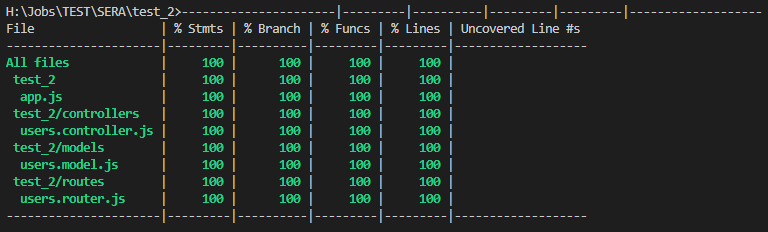
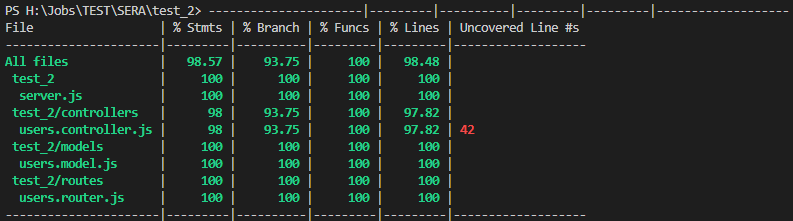
[UPDATE] connect to RabbitMQ and send email when user created

Changed region(s): [[0.0, 0.0271, 1.0, 1.0], [0.0, 0.2443, 0.0938, 0.2986]]

diff --git a/controllers/users.controller.js b/controllers/users.controller.js
@@ -1,88 +1,117 @@
+const amqp = require('amqplib/callback_api');
+require('dotenv').config();
+
 const model = require('../models/users.model');
 
 function postUser(req, res) {
-    if (!req.body.name) {
-        return res.status(400).json({
-            error: 'Missing user name'
-        });
-    }
+	if (!req.body.name) {
+		return res.status(400).json({
+			error: 'Missing user name'
+		});
+	}
 
-    if (!req.body.email) {
-        return res.status(400).json({
-            error: 'Missing user email'
-        });
-    } else {
-        const user = model.find(user => user.email === req.body.email);
-        if (user) {
-            return res.status(409).json({
-                error: 'User email already existed'
-            });
-        }
-    }
+	if (!req.body.email) {
+		return res.status(400).json({
+			error: 'Missing user email'
+		});
+	} else {
+		const user = model.find(user => user.email === req.body.email);
+		if (user) {
+			return res.status(409).json({
+				error: 'User email already existed'
+			});
+		}
+	}
 
-    const newUser = {
-        id: model.length + 1,
-        name: req.body.name,
-        email: req.body.email
-    }
-    model.push(newUser);
+	const newUser = {
+		id: model.length + 1,
+		name: req.body.name,
+		email: req.body.email
+	}
+	model.push(newUser);
 
-    res.status(201).json(newUser);
+	amqp.connect(`${process.env.RABBITMQ_CONNECTION}://${process.env.RABBITMQ_HOST}`, (error0, connection) => {
+		if (error0) {
+			return res.status(500).json({
+				error: 'Failed to connect to RabbitMQ'
+			});
+		}
+
+		connection.createChannel((error1, channel) => {
+			if (error1) {
+				return res.status(500).json({
+					error: 'Failed to create channel to RabbitMQ'
+				});
+			}
+
+			const queue = 'email';
+
+			channel.assertQueue(queue, {
+				durable: false
+			});
+			channel.sendToQueue(queue, Buffer.from(newUser.email))
+
+			setTimeout(() => {
+				connection.close();
+				res.status(201).json(newUser);
+			}, 500);
+		});
+	});
 }
 
 function getUsers(req, res) {
-    res.json(model);
+	res.json(model);
 }
 
 function getUser(req, res) {
-    const { userId } = req.params;
-    const user = model.find(user => user.id === Number(userId));
+	const { userId } = req.params;
+	const user = model.find(user => user.id === Number(userId));
 
-    if (user) {
-        res.status(200).json(user);
-    } else {
-        res.status(404).json({
-            error: 'User not found'
-        });
-    }
+	if (user) {
+		res.status(200).json(user);
+	} else {
+		res.status(404).json({
+			error: 'User not found'
+		});
+	}
 }
 
 function putUser(req, res) {
-    const { userId } = req.params;
-    const { name, email } = req.body;
-    const index = model.findIndex(user => user.id === Number(userId));
+	const { userId } = req.params;
+	const { name, email } = req.body;
+	const index = model.findIndex(user => user.id === Number(userId));
 
-    if (!model[index]) {
-        res.status(404).json({
-            error: 'User not found'
-        });
-    } else {
-        model[index].name = name;
-        model[index].email = email;
+	if (!model[index]) {
+		res.status(404).json({
+			error: 'User not found'
+		});
+	} else {
+		model[index].name = name;
+		model[index].email = email;
 
-        res.status(200).json(model[index]);
-    }
+		res.status(200).json(model[index]);
+	}
 }
 
 function deleteUser(req, res) {
-    const { userId } = req.params;
-    const index = model.findIndex(user => user.id === Number(userId));
+	const { userId } = req.params;
+	const index = model.findIndex(user => user.id === Number(userId));
 
-    if (!model[index]) {
-        res.status(404).json({
-            error: 'User not found'
-        });
-    } else {
-        const deletedUser = model[index];
-        model.splice(index, 1);
-        res.status(200).json(deletedUser);
-    }
+	if (!model[index]) {
+		res.status(404).json({
+			error: 'User not found'
+		});
+	} else {
+		const deletedUser = model[index];
+		model.splice(index, 1);
+		res.status(200).json(deletedUser);
+	}
 }
 
 module.exports = {
-    postUser,
-    getUsers,
-    getUser,
-    putUser,
-    deleteUser
+	postUser,
+	getUsers,
+	getUser,
+	putUser,
+	deleteUser
 }

diff --git a/test/test.js b/test/test.js
@@ -1,6 +1,7 @@
 const { expect } = require('chai');
 const chai = require('chai');
 const request = require('supertest');
+require('dotenv').config();
 
 const app = require('../server');
 
@@ -12,7 +13,7 @@ describe('Test GET /users', () => {
       .get('/users')
       .expect('Content-Type', /json/)
       .expect(200);
-    });
+  });
 });
 
 describe('Test GET /users/:userId', () => {
@@ -22,22 +23,22 @@ describe('Test GET /users/:userId', () => {
       .expect('Content-Type', /json/)
       .expect(200);
 
-      response.body.should.have.valueOf({
-        id: 1,
-        name: 'Jaya Hendro Gunawan',
-        email: 'jaya.hendra05@gmail.com'
-      });
+    response.body.should.have.valueOf({
+      id: 1,
+      name: 'Jaya Hendro Gunawan',
+      email: 'jaya.hendra05@gmail.com'
     });
+  });
   it('should respond with 200 success', async () => {
     const response = await request(app)
       .get('/users/99')
       .expect('Content-Type', /json/)
       .expect(404);
 
-      response.body.should.have.valueOf({
-        error: 'User not found'
+    response.body.should.have.valueOf({
+      error: 'User not found'
     });
-    });
+  });
 });
 
 describe('Test POST /users', () => {
@@ -60,9 +61,9 @@ describe('Test POST /users', () => {
       .expect('Content-Type', /json/)
       .expect(400);
 
-      response.body.should.have.valueOf({
-        error: 'Missing user name'
-      });
+    response.body.should.have.valueOf({
+      error: 'Missing user name'
+    });
   });
   it('should return error because missing email', async () => {
     const response = await request(app)
@@ -73,9 +74,9 @@ describe('Test POST /users', () => {
       .expect('Content-Type', /json/)
       .expect(400);
 
-      response.body.should.have.valueOf({
-        error: 'Missing user email'
-      });
+    response.body.should.have.valueOf({
+      error: 'Missing user email'
+    });
   });
   it('should return error because user already existed', async () => {
     const response = await request(app)
@@ -87,9 +88,25 @@ describe('Test POST /users', () => {
       .expect('Content-Type', /json/)
       .expect(409);
 
-      response.body.should.have.valueOf({
-        error: 'User email already existed'
-      });
+    response.body.should.have.valueOf({
+      error: 'User email already existed'
+    });
+  });
+  it('should return error because failed to connect RabbitMQ', async () => {
+    process.env.RABBITMQ_HOST = 'local';
+    
+    const response = await request(app)
+      .post('/users')
+      .send({
+        name: 'Abc',
+        email: 'abc@gmail.com'
+      })
+      .expect('Content-Type', /json/)
+      .expect(500);
+
+    response.body.should.have.valueOf({
+      error: 'Failed to connect to RabbitMQ'
+    });
   });
 });
 
@@ -114,9 +131,9 @@ describe('Test PUT /users', () => {
       .expect('Content-Type', /json/)
       .expect(404);
 
-      response.body.should.have.valueOf({
-        error: 'User not found'
-      });
+    response.body.should.have.valueOf({
+      error: 'User not found'
+    });
   });
 });
 
@@ -133,8 +150,8 @@ describe('Test DELETE /users', () => {
       .expect('Content-Type', /json/)
       .expect(404);
 
-      response.body.should.have.valueOf({
-        error: 'User not found'
-      });
+    response.body.should.have.valueOf({
+      error: 'User not found'
+    });
   });
 });

diff --git a/models/users.model.js b/models/users.model.js
@@ -1,19 +1,19 @@
 const users = [
-    {
-        id: 1,
-        name: 'Jaya Hendro Gunawan',
-        email: 'jaya.hendra05@gmail.com'
-    },
-    {
-        id: 2,
-        name: 'Adi Wicaksono',
-        email: 'adi.wicaksono@gmail.com'
-    },
-    {
-        id: 3,
-        name: 'Harry Setiawan',
-        email: 'harry.setiawan@gmail.com'
-    }
+	{
+		id: 1,
+		name: 'Jaya Hendro Gunawan',
+		email: 'jaya.hendra05@gmail.com'
+	},
+	{
+		id: 2,
+		name: 'Adi Wicaksono',
+		email: 'adi.wicaksono@gmail.com'
+	},
+	{
+		id: 3,
+		name: 'Harry Setiawan',
+		email: 'harry.setiawan@gmail.com'
+	}
 ];
 
 module.exports = users;

diff --git a/README.md b/README.md
@@ -56,6 +56,9 @@ Download the REST API from [here][postman-url]
 2. Coverage<br>
    ![Coverage Code][coverage-code]
 
+## Note
+   Every time create a user that will send to inputted email directly.
+
 ## Contact
 Jaya Hendro Gunawan - [@jayahendrogunawan][instagram-url]
 
